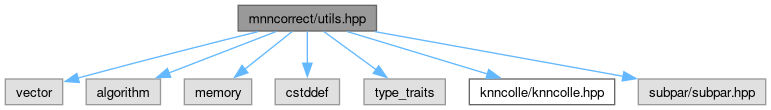
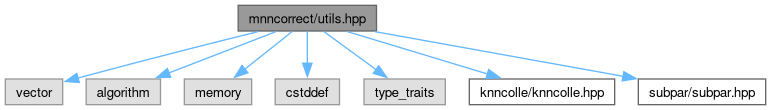
Deploying to gh-pages from @ libscran/mnncorrect@4e17fbb64b5964e9e74299aa8e17b0ef20e1f7d5 🚀

Changed region(s): [[0.8093, 0.7091, 0.9961, 0.9545]]

diff --git a/docs/search/all_e.js b/docs/search/all_e.js
@@ -1,10 +1,14 @@
 var searchData=
 [
-  ['search_0',['search',['https://knncolle.github.io/knncolle/classknncolle_1_1BruteforceSearcher.html#a053545a8000d3a7ad9ff81c8315e20a2',1,'knncolle::BruteforceSearcher::search(Index_ i, Index_ k, std::vector&lt; Index_ &gt; *output_indices, std::vector&lt; Distance_ &gt; *output_distances)'],['https://knncolle.github.io/knncolle/classknncolle_1_1BruteforceSearcher.html#af66acefa137de424974cabfc2cc624fb',1,'knncolle::BruteforceSearcher::search(const Data_ *query, Index_ k, std::vector&lt; Index_ &gt; *output_indices, std::vector&lt; Distance_ &gt; *output_distances)'],['https://knncolle.github.io/knncolle/classknncolle_1_1Searcher.html#ab0f6c2ce78952dd555f7f1a8fb3ac208',1,'knncolle::Searcher::search(Index_ i, Index_ k, std::vector&lt; Index_ &gt; *output_indices, std::vector&lt; Distance_ &gt; *output_distances)=0'],['https://knncolle.github.io/knncolle/classknncolle_1_1Searcher.html#a6968d65276d81f47c92f6351ec786150',1,'knncolle::Searcher::search(const Data_ *query, Index_ k, std::vector&lt; Index_ &gt; *output_indices, std::vector&lt; Distance_ &gt; *output_distances)=0'],['https://knncolle.github.io/knncolle/classknncolle_1_1VptreeSearcher.html#a2f9935e30b1541aaa19e1cad9f8448e5',1,'knncolle::VptreeSearcher::search(Index_ i, Index_ k, std::vector&lt; Index_ &gt; *output_indices, std::vector&lt; Distance_ &gt; *output_distances)'],['https://knncolle.github.io/knncolle/classknncolle_1_1VptreeSearcher.html#a4cbc643bf6cbce5c718d5bf3fb820580',1,'knncolle::VptreeSearcher::search(const Data_ *query, Index_ k, std::vector&lt; Index_ &gt; *output_indices, std::vector&lt; Distance_ &gt; *output_distances)']]],
-  ['search_5fall_1',['search_all',['https://knncolle.github.io/knncolle/classknncolle_1_1BruteforceSearcher.html#a73547f377d2bab4860d0aa07839b1046',1,'knncolle::BruteforceSearcher::search_all(Index_ i, Distance_ d, std::vector&lt; Index_ &gt; *output_indices, std::vector&lt; Distance_ &gt; *output_distances)'],['https://knncolle.github.io/knncolle/classknncolle_1_1BruteforceSearcher.html#ac1ead06e7eaf03df9cec271e9a64fbee',1,'knncolle::BruteforceSearcher::search_all(const Data_ *query, Distance_ d, std::vector&lt; Index_ &gt; *output_indices, std::vector&lt; Distance_ &gt; *output_distances)'],['https://knncolle.github.io/knncolle/classknncolle_1_1Searcher.html#a3ef8c1bf087751bff46af346bda2feb3',1,'knncolle::Searcher::search_all(Index_ i, Distance_ distance, std::vector&lt; Index_ &gt; *output_indices, std::vector&lt; Distance_ &gt; *output_distances)'],['https://knncolle.github.io/knncolle/classknncolle_1_1Searcher.html#a37c88e638622eadc5f3c0328e8a1c5f1',1,'knncolle::Searcher::search_all(const Data_ *query, Distance_ distance, std::vector&lt; Index_ &gt; *output_indices, std::vector&lt; Distance_ &gt; *output_distances)'],['https://knncolle.github.io/knncolle/classknncolle_1_1VptreeSearcher.html#a146e00c6e6d2de4080e902b12eaf2475',1,'knncolle::VptreeSearcher::search_all(Index_ i, Distance_ d, std::vector&lt; Index_ &gt; *output_indices, std::vector&lt; Distance_ &gt; *output_distances)'],['https://knncolle.github.io/knncolle/classknncolle_1_1VptreeSearcher.html#a53b639f9025699af8fc45487c26ed800',1,'knncolle::VptreeSearcher::search_all(const Data_ *query, Distance_ d, std::vector&lt; Index_ &gt; *output_indices, std::vector&lt; Distance_ &gt; *output_distances)']]],
-  ['searcher_2',['Searcher',['https://knncolle.github.io/knncolle/classknncolle_1_1Searcher.html',1,'knncolle']]],
-  ['searcher_2ehpp_3',['Searcher.hpp',['https://knncolle.github.io/knncolle/Searcher_8hpp.html',1,'']]],
-  ['searcher_3c_20index_5f_2c_20data_5f_2c_20distance_5f_20_3e_4',['Searcher&lt; Index_, Data_, Distance_ &gt;',['https://knncolle.github.io/knncolle/classknncolle_1_1Searcher.html',1,'knncolle']]],
-  ['simplematrix_5',['SimpleMatrix',['https://knncolle.github.io/knncolle/classknncolle_1_1SimpleMatrix.html',1,'knncolle::SimpleMatrix&lt; typename Index_, typename Data_ &gt;'],['https://knncolle.github.io/knncolle/classknncolle_1_1SimpleMatrix.html#afe415d2e6adc07aecffab4e8b75ca9e5',1,'knncolle::SimpleMatrix::SimpleMatrix()']]],
-  ['simplematrixextractor_6',['SimpleMatrixExtractor',['https://knncolle.github.io/knncolle/classknncolle_1_1SimpleMatrixExtractor.html',1,'knncolle']]]
+  ['sanitize_5fnum_5fworkers_0',['sanitize_num_workers',['https://ltla.github.io/subpar/namespacesubpar.html#a9a5cb3009789142bac13ce0e81f19082',1,'subpar']]],
+  ['search_1',['search',['https://knncolle.github.io/knncolle/classknncolle_1_1BruteforceSearcher.html#a053545a8000d3a7ad9ff81c8315e20a2',1,'knncolle::BruteforceSearcher::search(Index_ i, Index_ k, std::vector&lt; Index_ &gt; *output_indices, std::vector&lt; Distance_ &gt; *output_distances)'],['https://knncolle.github.io/knncolle/classknncolle_1_1BruteforceSearcher.html#af66acefa137de424974cabfc2cc624fb',1,'knncolle::BruteforceSearcher::search(const Data_ *query, Index_ k, std::vector&lt; Index_ &gt; *output_indices, std::vector&lt; Distance_ &gt; *output_distances)'],['https://knncolle.github.io/knncolle/classknncolle_1_1Searcher.html#ab0f6c2ce78952dd555f7f1a8fb3ac208',1,'knncolle::Searcher::search(Index_ i, Index_ k, std::vector&lt; Index_ &gt; *output_indices, std::vector&lt; Distance_ &gt; *output_distances)=0'],['https://knncolle.github.io/knncolle/classknncolle_1_1Searcher.html#a6968d65276d81f47c92f6351ec786150',1,'knncolle::Searcher::search(const Data_ *query, Index_ k, std::vector&lt; Index_ &gt; *output_indices, std::vector&lt; Distance_ &gt; *output_distances)=0'],['https://knncolle.github.io/knncolle/classknncolle_1_1VptreeSearcher.html#a2f9935e30b1541aaa19e1cad9f8448e5',1,'knncolle::VptreeSearcher::search(Index_ i, Index_ k, std::vector&lt; Index_ &gt; *output_indices, std::vector&lt; Distance_ &gt; *output_distances)'],['https://knncolle.github.io/knncolle/classknncolle_1_1VptreeSearcher.html#a4cbc643bf6cbce5c718d5bf3fb820580',1,'knncolle::VptreeSearcher::search(const Data_ *query, Index_ k, std::vector&lt; Index_ &gt; *output_indices, std::vector&lt; Distance_ &gt; *output_distances)']]],
+  ['search_5fall_2',['search_all',['https://knncolle.github.io/knncolle/classknncolle_1_1BruteforceSearcher.html#a73547f377d2bab4860d0aa07839b1046',1,'knncolle::BruteforceSearcher::search_all(Index_ i, Distance_ d, std::vector&lt; Index_ &gt; *output_indices, std::vector&lt; Distance_ &gt; *output_distances)'],['https://knncolle.github.io/knncolle/classknncolle_1_1BruteforceSearcher.html#ac1ead06e7eaf03df9cec271e9a64fbee',1,'knncolle::BruteforceSearcher::search_all(const Data_ *query, Distance_ d, std::vector&lt; Index_ &gt; *output_indices, std::vector&lt; Distance_ &gt; *output_distances)'],['https://knncolle.github.io/knncolle/classknncolle_1_1Searcher.html#a3ef8c1bf087751bff46af346bda2feb3',1,'knncolle::Searcher::search_all(Index_ i, Distance_ distance, std::vector&lt; Index_ &gt; *output_indices, std::vector&lt; Distance_ &gt; *output_distances)'],['https://knncolle.github.io/knncolle/classknncolle_1_1Searcher.html#a37c88e638622eadc5f3c0328e8a1c5f1',1,'knncolle::Searcher::search_all(const Data_ *query, Distance_ distance, std::vector&lt; Index_ &gt; *output_indices, std::vector&lt; Distance_ &gt; *output_distances)'],['https://knncolle.github.io/knncolle/classknncolle_1_1VptreeSearcher.html#a146e00c6e6d2de4080e902b12eaf2475',1,'knncolle::VptreeSearcher::search_all(Index_ i, Distance_ d, std::vector&lt; Index_ &gt; *output_indices, std::vector&lt; Distance_ &gt; *output_distances)'],['https://knncolle.github.io/knncolle/classknncolle_1_1VptreeSearcher.html#a53b639f9025699af8fc45487c26ed800',1,'knncolle::VptreeSearcher::search_all(const Data_ *query, Distance_ d, std::vector&lt; Index_ &gt; *output_indices, std::vector&lt; Distance_ &gt; *output_distances)']]],
+  ['searcher_3',['Searcher',['https://knncolle.github.io/knncolle/classknncolle_1_1Searcher.html',1,'knncolle']]],
+  ['searcher_2ehpp_4',['Searcher.hpp',['https://knncolle.github.io/knncolle/Searcher_8hpp.html',1,'']]],
+  ['searcher_3c_20index_5f_2c_20data_5f_2c_20distance_5f_20_3e_5',['Searcher&lt; Index_, Data_, Distance_ &gt;',['https://knncolle.github.io/knncolle/classknncolle_1_1Searcher.html',1,'knncolle']]],
+  ['simple_2ehpp_6',['simple.hpp',['https://ltla.github.io/subpar/simple_8hpp.html',1,'']]],
+  ['simplematrix_7',['SimpleMatrix',['https://knncolle.github.io/knncolle/classknncolle_1_1SimpleMatrix.html',1,'knncolle::SimpleMatrix&lt; typename Index_, typename Data_ &gt;'],['https://knncolle.github.io/knncolle/classknncolle_1_1SimpleMatrix.html#afe415d2e6adc07aecffab4e8b75ca9e5',1,'knncolle::SimpleMatrix::SimpleMatrix()']]],
+  ['simplematrixextractor_8',['SimpleMatrixExtractor',['https://knncolle.github.io/knncolle/classknncolle_1_1SimpleMatrixExtractor.html',1,'knncolle']]],
+  ['subpar_9',['subpar',['https://ltla.github.io/subpar/namespacesubpar.html',1,'']]],
+  ['subpar_2ehpp_10',['subpar.hpp',['https://ltla.github.io/subpar/subpar_8hpp.html',1,'']]]
 ];

diff --git a/docs/search/functions_a.js b/docs/search/functions_a.js
@@ -1,6 +1,7 @@
 var searchData=
 [
-  ['search_0',['search',['https://knncolle.github.io/knncolle/classknncolle_1_1BruteforceSearcher.html#a053545a8000d3a7ad9ff81c8315e20a2',1,'knncolle::BruteforceSearcher::search(Index_ i, Index_ k, std::vector&lt; Index_ &gt; *output_indices, std::vector&lt; Distance_ &gt; *output_distances)'],['https://knncolle.github.io/knncolle/classknncolle_1_1BruteforceSearcher.html#af66acefa137de424974cabfc2cc624fb',1,'knncolle::BruteforceSearcher::search(const Data_ *query, Index_ k, std::vector&lt; Index_ &gt; *output_indices, std::vector&lt; Distance_ &gt; *output_distances)'],['https://knncolle.github.io/knncolle/classknncolle_1_1Searcher.html#ab0f6c2ce78952dd555f7f1a8fb3ac208',1,'knncolle::Searcher::search(Index_ i, Index_ k, std::vector&lt; Index_ &gt; *output_indices, std::vector&lt; Distance_ &gt; *output_distances)=0'],['https://knncolle.github.io/knncolle/classknncolle_1_1Searcher.html#a6968d65276d81f47c92f6351ec786150',1,'knncolle::Searcher::search(const Data_ *query, Index_ k, std::vector&lt; Index_ &gt; *output_indices, std::vector&lt; Distance_ &gt; *output_distances)=0'],['https://knncolle.github.io/knncolle/classknncolle_1_1VptreeSearcher.html#a2f9935e30b1541aaa19e1cad9f8448e5',1,'knncolle::VptreeSearcher::search(Index_ i, Index_ k, std::vector&lt; Index_ &gt; *output_indices, std::vector&lt; Distance_ &gt; *output_distances)'],['https://knncolle.github.io/knncolle/classknncolle_1_1VptreeSearcher.html#a4cbc643bf6cbce5c718d5bf3fb820580',1,'knncolle::VptreeSearcher::search(const Data_ *query, Index_ k, std::vector&lt; Index_ &gt; *output_indices, std::vector&lt; Distance_ &gt; *output_distances)']]],
-  ['search_5fall_1',['search_all',['https://knncolle.github.io/knncolle/classknncolle_1_1BruteforceSearcher.html#a73547f377d2bab4860d0aa07839b1046',1,'knncolle::BruteforceSearcher::search_all(Index_ i, Distance_ d, std::vector&lt; Index_ &gt; *output_indices, std::vector&lt; Distance_ &gt; *output_distances)'],['https://knncolle.github.io/knncolle/classknncolle_1_1BruteforceSearcher.html#ac1ead06e7eaf03df9cec271e9a64fbee',1,'knncolle::BruteforceSearcher::search_all(const Data_ *query, Distance_ d, std::vector&lt; Index_ &gt; *output_indices, std::vector&lt; Distance_ &gt; *output_distances)'],['https://knncolle.github.io/knncolle/classknncolle_1_1Searcher.html#a3ef8c1bf087751bff46af346bda2feb3',1,'knncolle::Searcher::search_all(Index_ i, Distance_ distance, std::vector&lt; Index_ &gt; *output_indices, std::vector&lt; Distance_ &gt; *output_distances)'],['https://knncolle.github.io/knncolle/classknncolle_1_1Searcher.html#a37c88e638622eadc5f3c0328e8a1c5f1',1,'knncolle::Searcher::search_all(const Data_ *query, Distance_ distance, std::vector&lt; Index_ &gt; *output_indices, std::vector&lt; Distance_ &gt; *output_distances)'],['https://knncolle.github.io/knncolle/classknncolle_1_1VptreeSearcher.html#a146e00c6e6d2de4080e902b12eaf2475',1,'knncolle::VptreeSearcher::search_all(Index_ i, Distance_ d, std::vector&lt; Index_ &gt; *output_indices, std::vector&lt; Distance_ &gt; *output_distances)'],['https://knncolle.github.io/knncolle/classknncolle_1_1VptreeSearcher.html#a53b639f9025699af8fc45487c26ed800',1,'knncolle::VptreeSearcher::search_all(const Data_ *query, Distance_ d, std::vector&lt; Index_ &gt; *output_indices, std::vector&lt; Distance_ &gt; *output_distances)']]],
-  ['simplematrix_2',['SimpleMatrix',['https://knncolle.github.io/knncolle/classknncolle_1_1SimpleMatrix.html#afe415d2e6adc07aecffab4e8b75ca9e5',1,'knncolle::SimpleMatrix']]]
+  ['sanitize_5fnum_5fworkers_0',['sanitize_num_workers',['https://ltla.github.io/subpar/namespacesubpar.html#a9a5cb3009789142bac13ce0e81f19082',1,'subpar']]],
+  ['search_1',['search',['https://knncolle.github.io/knncolle/classknncolle_1_1BruteforceSearcher.html#a053545a8000d3a7ad9ff81c8315e20a2',1,'knncolle::BruteforceSearcher::search(Index_ i, Index_ k, std::vector&lt; Index_ &gt; *output_indices, std::vector&lt; Distance_ &gt; *output_distances)'],['https://knncolle.github.io/knncolle/classknncolle_1_1BruteforceSearcher.html#af66acefa137de424974cabfc2cc624fb',1,'knncolle::BruteforceSearcher::search(const Data_ *query, Index_ k, std::vector&lt; Index_ &gt; *output_indices, std::vector&lt; Distance_ &gt; *output_distances)'],['https://knncolle.github.io/knncolle/classknncolle_1_1Searcher.html#ab0f6c2ce78952dd555f7f1a8fb3ac208',1,'knncolle::Searcher::search(Index_ i, Index_ k, std::vector&lt; Index_ &gt; *output_indices, std::vector&lt; Distance_ &gt; *output_distances)=0'],['https://knncolle.github.io/knncolle/classknncolle_1_1Searcher.html#a6968d65276d81f47c92f6351ec786150',1,'knncolle::Searcher::search(const Data_ *query, Index_ k, std::vector&lt; Index_ &gt; *output_indices, std::vector&lt; Distance_ &gt; *output_distances)=0'],['https://knncolle.github.io/knncolle/classknncolle_1_1VptreeSearcher.html#a2f9935e30b1541aaa19e1cad9f8448e5',1,'knncolle::VptreeSearcher::search(Index_ i, Index_ k, std::vector&lt; Index_ &gt; *output_indices, std::vector&lt; Distance_ &gt; *output_distances)'],['https://knncolle.github.io/knncolle/classknncolle_1_1VptreeSearcher.html#a4cbc643bf6cbce5c718d5bf3fb820580',1,'knncolle::VptreeSearcher::search(const Data_ *query, Index_ k, std::vector&lt; Index_ &gt; *output_indices, std::vector&lt; Distance_ &gt; *output_distances)']]],
+  ['search_5fall_2',['search_all',['https://knncolle.github.io/knncolle/classknncolle_1_1BruteforceSearcher.html#a73547f377d2bab4860d0aa07839b1046',1,'knncolle::BruteforceSearcher::search_all(Index_ i, Distance_ d, std::vector&lt; Index_ &gt; *output_indices, std::vector&lt; Distance_ &gt; *output_distances)'],['https://knncolle.github.io/knncolle/classknncolle_1_1BruteforceSearcher.html#ac1ead06e7eaf03df9cec271e9a64fbee',1,'knncolle::BruteforceSearcher::search_all(const Data_ *query, Distance_ d, std::vector&lt; Index_ &gt; *output_indices, std::vector&lt; Distance_ &gt; *output_distances)'],['https://knncolle.github.io/knncolle/classknncolle_1_1Searcher.html#a3ef8c1bf087751bff46af346bda2feb3',1,'knncolle::Searcher::search_all(Index_ i, Distance_ distance, std::vector&lt; Index_ &gt; *output_indices, std::vector&lt; Distance_ &gt; *output_distances)'],['https://knncolle.github.io/knncolle/classknncolle_1_1Searcher.html#a37c88e638622eadc5f3c0328e8a1c5f1',1,'knncolle::Searcher::search_all(const Data_ *query, Distance_ distance, std::vector&lt; Index_ &gt; *output_indices, std::vector&lt; Distance_ &gt; *output_distances)'],['https://knncolle.github.io/knncolle/classknncolle_1_1VptreeSearcher.html#a146e00c6e6d2de4080e902b12eaf2475',1,'knncolle::VptreeSearcher::search_all(Index_ i, Distance_ d, std::vector&lt; Index_ &gt; *output_indices, std::vector&lt; Distance_ &gt; *output_distances)'],['https://knncolle.github.io/knncolle/classknncolle_1_1VptreeSearcher.html#a53b639f9025699af8fc45487c26ed800',1,'knncolle::VptreeSearcher::search_all(const Data_ *query, Distance_ d, std::vector&lt; Index_ &gt; *output_indices, std::vector&lt; Distance_ &gt; *output_distances)']]],
+  ['simplematrix_3',['SimpleMatrix',['https://knncolle.github.io/knncolle/classknncolle_1_1SimpleMatrix.html#afe415d2e6adc07aecffab4e8b75ca9e5',1,'knncolle::SimpleMatrix']]]
 ];

diff --git a/docs/utils_8hpp_source.html b/docs/utils_8hpp_source.html
@@ -112,7 +112,7 @@ $(function(){ initResizable(false); });
 <div class="line"><a id="l00010" name="l00010"></a><span class="lineno">   10</span><span class="preprocessor">#include &quot;<a class="codeRef" href="https://knncolle.github.io/knncolle/knncolle_8hpp.html">knncolle/knncolle.hpp</a>&quot;</span></div>
 <div class="line"><a id="l00011" name="l00011"></a><span class="lineno">   11</span> </div>
 <div class="line"><a id="l00012" name="l00012"></a><span class="lineno">   12</span><span class="preprocessor">#ifndef MNNCORRECT_CUSTOM_PARALLEL</span></div>
-<div class="line"><a id="l00013" name="l00013"></a><span class="lineno">   13</span><span class="preprocessor">#include &quot;subpar/subpar.hpp&quot;</span></div>
+<div class="line"><a id="l00013" name="l00013"></a><span class="lineno">   13</span><span class="preprocessor">#include &quot;<a class="codeRef" href="https://ltla.github.io/subpar/subpar_8hpp.html">subpar/subpar.hpp</a>&quot;</span></div>
 <div class="line"><a id="l00014" name="l00014"></a><span class="lineno">   14</span><span class="preprocessor">#endif</span></div>
 <div class="line"><a id="l00015" name="l00015"></a><span class="lineno">   15</span> </div>
 <div class="foldopen" id="foldopen00021" data-start="{" data-end="}">
@@ -127,7 +127,7 @@ $(function(){ initResizable(false); });
 <div class="line"><a id="l00058" name="l00058"></a><span class="lineno"><a class="line" href="namespacemnncorrect.html#aaf40fe64b828a94b8d253fca4b32b4a4">   58</a></span><span class="keywordtype">void</span> <a class="code hl_function" href="namespacemnncorrect.html#aaf40fe64b828a94b8d253fca4b32b4a4">parallelize</a>(<span class="keyword">const</span> <span class="keywordtype">int</span> num_workers, <span class="keyword">const</span> Task_ num_tasks, Run_ run_task_range) {</div>
 <div class="line"><a id="l00059" name="l00059"></a><span class="lineno">   59</span><span class="preprocessor">#ifndef MNNCORRECT_CUSTOM_PARALLEL</span></div>
 <div class="line"><a id="l00060" name="l00060"></a><span class="lineno">   60</span>    <span class="comment">// Methods could allocate or throw, so nothrow_ = false is safest.</span></div>
-<div class="line"><a id="l00061" name="l00061"></a><span class="lineno">   61</span>    subpar::parallelize_range&lt;false&gt;(num_workers, num_tasks, std::move(run_task_range));</div>
+<div class="line"><a id="l00061" name="l00061"></a><span class="lineno">   61</span>    <a class="code hl_functionRef" href="https://ltla.github.io/subpar/namespacesubpar.html#a9c64cc17f4f8d1fadbba6d25053a8dbe">subpar::parallelize_range&lt;false&gt;</a>(num_workers, num_tasks, std::move(run_task_range));</div>
 <div class="line"><a id="l00062" name="l00062"></a><span class="lineno">   62</span><span class="preprocessor">#else</span></div>
 <div class="line"><a id="l00063" name="l00063"></a><span class="lineno">   63</span>    MNNCORRECT_CUSTOM_PARALLEL(num_workers, num_tasks, run_task_range);</div>
 <div class="line"><a id="l00064" name="l00064"></a><span class="lineno">   64</span><span class="preprocessor">#endif</span></div>
@@ -170,6 +170,8 @@ $(function(){ initResizable(false); });
 <div class="ttc" id="anamespacemnncorrect_html_a5a9c9f9569fcad76a5e735cd8fae0197"><div class="ttname"><a href="namespacemnncorrect.html#a5a9c9f9569fcad76a5e735cd8fae0197">mnncorrect::MergePolicy</a></div><div class="ttdeci">MergePolicy</div><div class="ttdef"><b>Definition</b> utils.hpp:43</div></div>
 <div class="ttc" id="anamespacemnncorrect_html_a67ab090aec935cd48ad2e5d3383926f7"><div class="ttname"><a href="namespacemnncorrect.html#a67ab090aec935cd48ad2e5d3383926f7">mnncorrect::BatchIndex</a></div><div class="ttdeci">std::size_t BatchIndex</div><div class="ttdef"><b>Definition</b> utils.hpp:26</div></div>
 <div class="ttc" id="anamespacemnncorrect_html_aaf40fe64b828a94b8d253fca4b32b4a4"><div class="ttname"><a href="namespacemnncorrect.html#aaf40fe64b828a94b8d253fca4b32b4a4">mnncorrect::parallelize</a></div><div class="ttdeci">void parallelize(const int num_workers, const Task_ num_tasks, Run_ run_task_range)</div><div class="ttdef"><b>Definition</b> utils.hpp:58</div></div>
+<div class="ttc" id="anamespacesubpar_html_a9c64cc17f4f8d1fadbba6d25053a8dbe"><div class="ttname"><a href="https://ltla.github.io/subpar/namespacesubpar.html#a9c64cc17f4f8d1fadbba6d25053a8dbe">subpar::parallelize_range</a></div><div class="ttdeci">void parallelize_range(int num_workers, Task_ num_tasks, Run_ run_task_range)</div></div>
+<div class="ttc" id="asubpar_8hpp_html"><div class="ttname"><a href="https://ltla.github.io/subpar/subpar_8hpp.html">subpar.hpp</a></div></div>
 </div><!-- fragment --></div><!-- contents -->
 <!-- start footer part -->
 <hr class="footer"/><address class="footer"><small>

diff --git a/docs/search/all_d.js b/docs/search/all_d.js
@@ -1,8 +1,9 @@
 var searchData=
 [
-  ['raw_0',['raw',['https://knncolle.github.io/knncolle/classknncolle_1_1DistanceMetric.html#a8ce1cf96534fffbc989ae0141cf74ef4',1,'knncolle::DistanceMetric']]],
-  ['report_1',['report',['https://knncolle.github.io/knncolle/classknncolle_1_1NeighborQueue.html#a611b8233976b0b5f930deac74c2b68c3',1,'knncolle::NeighborQueue::report(std::vector&lt; Index_ &gt; *output_indices, std::vector&lt; Distance_ &gt; *output_distances, Index_ self)'],['https://knncolle.github.io/knncolle/classknncolle_1_1NeighborQueue.html#a8eae6afd23a9b4a3106b64f16e78c852',1,'knncolle::NeighborQueue::report(std::vector&lt; Index_ &gt; *output_indices, std::vector&lt; Distance_ &gt; *output_distances)']]],
-  ['report_5fall_5fneighbors_2',['report_all_neighbors',['https://knncolle.github.io/knncolle/namespaceknncolle.html#af24a311775039654985b447c85d03782',1,'knncolle::report_all_neighbors(std::vector&lt; std::pair&lt; Distance_, Index_ &gt; &gt; &amp;all_neighbors, std::vector&lt; Index_ &gt; *output_indices, std::vector&lt; Distance_ &gt; *output_distances, Index_ self)'],['https://knncolle.github.io/knncolle/namespaceknncolle.html#ab42206db56aa02366c741249e609465c',1,'knncolle::report_all_neighbors(std::vector&lt; std::pair&lt; Distance_, Index_ &gt; &gt; &amp;all_neighbors, std::vector&lt; Index_ &gt; *output_indices, std::vector&lt; Distance_ &gt; *output_distances)']]],
-  ['report_5fall_5fneighbors_2ehpp_3',['report_all_neighbors.hpp',['https://knncolle.github.io/knncolle/report__all__neighbors_8hpp.html',1,'']]],
-  ['reset_4',['reset',['https://knncolle.github.io/knncolle/classknncolle_1_1NeighborQueue.html#ae75692355310f09d163bf20b19b3ef36',1,'knncolle::NeighborQueue']]]
+  ['range_2ehpp_0',['range.hpp',['https://ltla.github.io/subpar/range_8hpp.html',1,'']]],
+  ['raw_1',['raw',['https://knncolle.github.io/knncolle/classknncolle_1_1DistanceMetric.html#a8ce1cf96534fffbc989ae0141cf74ef4',1,'knncolle::DistanceMetric']]],
+  ['report_2',['report',['https://knncolle.github.io/knncolle/classknncolle_1_1NeighborQueue.html#a611b8233976b0b5f930deac74c2b68c3',1,'knncolle::NeighborQueue::report(std::vector&lt; Index_ &gt; *output_indices, std::vector&lt; Distance_ &gt; *output_distances, Index_ self)'],['https://knncolle.github.io/knncolle/classknncolle_1_1NeighborQueue.html#a8eae6afd23a9b4a3106b64f16e78c852',1,'knncolle::NeighborQueue::report(std::vector&lt; Index_ &gt; *output_indices, std::vector&lt; Distance_ &gt; *output_distances)']]],
+  ['report_5fall_5fneighbors_3',['report_all_neighbors',['https://knncolle.github.io/knncolle/namespaceknncolle.html#af24a311775039654985b447c85d03782',1,'knncolle::report_all_neighbors(std::vector&lt; std::pair&lt; Distance_, Index_ &gt; &gt; &amp;all_neighbors, std::vector&lt; Index_ &gt; *output_indices, std::vector&lt; Distance_ &gt; *output_distances, Index_ self)'],['https://knncolle.github.io/knncolle/namespaceknncolle.html#ab42206db56aa02366c741249e609465c',1,'knncolle::report_all_neighbors(std::vector&lt; std::pair&lt; Distance_, Index_ &gt; &gt; &amp;all_neighbors, std::vector&lt; Index_ &gt; *output_indices, std::vector&lt; Distance_ &gt; *output_distances)']]],
+  ['report_5fall_5fneighbors_2ehpp_4',['report_all_neighbors.hpp',['https://knncolle.github.io/knncolle/report__all__neighbors_8hpp.html',1,'']]],
+  ['reset_5',['reset',['https://knncolle.github.io/knncolle/classknncolle_1_1NeighborQueue.html#ae75692355310f09d163bf20b19b3ef36',1,'knncolle::NeighborQueue']]]
 ];

diff --git a/docs/search/all_c.js b/docs/search/all_c.js
@@ -1,7 +1,9 @@
 var searchData=
 [
   ['parallelize_0',['parallelize',['https://knncolle.github.io/knncolle/namespaceknncolle.html#a5faf80c12bbfbab853c41f6d001fe073',1,'knncolle::parallelize()'],['../namespacemnncorrect.html#aaf40fe64b828a94b8d253fca4b32b4a4',1,'mnncorrect::parallelize()']]],
-  ['prebuilt_1',['Prebuilt',['https://knncolle.github.io/knncolle/classknncolle_1_1Prebuilt.html',1,'knncolle']]],
-  ['prebuilt_2ehpp_2',['Prebuilt.hpp',['https://knncolle.github.io/knncolle/Prebuilt_8hpp.html',1,'']]],
-  ['prebuilt_3c_20index_5f_2c_20data_5f_2c_20distance_5f_20_3e_3',['Prebuilt&lt; Index_, Data_, Distance_ &gt;',['https://knncolle.github.io/knncolle/classknncolle_1_1Prebuilt.html',1,'knncolle']]]
+  ['parallelize_5frange_1',['parallelize_range',['https://ltla.github.io/subpar/namespacesubpar.html#a9c64cc17f4f8d1fadbba6d25053a8dbe',1,'subpar']]],
+  ['parallelize_5fsimple_2',['parallelize_simple',['https://ltla.github.io/subpar/namespacesubpar.html#abd9eeb2cbaaf14382b926674c47b9d73',1,'subpar']]],
+  ['prebuilt_3',['Prebuilt',['https://knncolle.github.io/knncolle/classknncolle_1_1Prebuilt.html',1,'knncolle']]],
+  ['prebuilt_2ehpp_4',['Prebuilt.hpp',['https://knncolle.github.io/knncolle/Prebuilt_8hpp.html',1,'']]],
+  ['prebuilt_3c_20index_5f_2c_20data_5f_2c_20distance_5f_20_3e_5',['Prebuilt&lt; Index_, Data_, Distance_ &gt;',['https://knncolle.github.io/knncolle/classknncolle_1_1Prebuilt.html',1,'knncolle']]]
 ];

diff --git a/docs/utils_8hpp.html b/docs/utils_8hpp.html
@@ -114,7 +114,7 @@ $(function(){ initResizable(false); });
 <code>#include &lt;cstddef&gt;</code><br />
 <code>#include &lt;type_traits&gt;</code><br />
 <code>#include &quot;<a class="elRef" href="https://knncolle.github.io/knncolle/knncolle_8hpp.html">knncolle/knncolle.hpp</a>&quot;</code><br />
-<code>#include &quot;subpar/subpar.hpp&quot;</code><br />
+<code>#include &quot;<a class="elRef" href="https://ltla.github.io/subpar/subpar_8hpp.html">subpar/subpar.hpp</a>&quot;</code><br />
 </div><div class="textblock"><div class="dynheader">
 Include dependency graph for utils.hpp:</div>
 <div class="dyncontent">
@@ -133,7 +133,7 @@ Include dependency graph for utils.hpp:</div>
 <area shape="poly" title=" " alt="" coords="325,29,378,68,375,72,322,34"/>
 <area shape="rect" target="_parent" href="https://knncolle.github.io/knncolle/knncolle_8hpp.html" title=" " alt="" coords="469,79,615,105"/>
 <area shape="poly" title=" " alt="" coords="348,29,488,71,487,77,346,34"/>
-<area shape="rect" title=" " alt="" coords="638,79,766,105"/>
+<area shape="rect" target="_parent" href="https://ltla.github.io/subpar/subpar_8hpp.html" title=" " alt="" coords="638,79,766,105"/>
 <area shape="poly" title=" " alt="" coords="375,29,624,74,623,79,374,34"/>
 </map>
 </div>

diff --git a/docs/namespaces.html b/docs/namespaces.html
@@ -100,6 +100,7 @@ $(function(){ initResizable(false); });
 <table class="directory">
 <tr id="row_0_" class="even"><td class="entry"><span style="width:16px;display:inline-block;">&#160;</span><span class="icona"><span class="icon">N</span></span><a class="elRef" href="https://knncolle.github.io/knncolle/namespaceknncolle.html" target="_self">knncolle</a>&#160;[external]</td><td class="desc"></td></tr>
 <tr id="row_1_" class="odd"><td class="entry"><span style="width:16px;display:inline-block;">&#160;</span><span class="icona"><span class="icon">N</span></span><a class="el" href="namespacemnncorrect.html" target="_self">mnncorrect</a></td><td class="desc">Batch correction with mutual nearest neighbors </td></tr>
+<tr id="row_2_" class="even"><td class="entry"><span style="width:16px;display:inline-block;">&#160;</span><span class="icona"><span class="icon">N</span></span><a class="elRef" href="https://ltla.github.io/subpar/namespacesubpar.html" target="_self">subpar</a>&#160;[external]</td><td class="desc"></td></tr>
 </table>
 </div><!-- directory -->
 </div><!-- contents -->

diff --git a/docs/namespacemnncorrect.html b/docs/namespacemnncorrect.html
@@ -410,7 +410,7 @@ template&lt;typename Task_ , class Run_ &gt; </div>
   </table>
   </dd>
 </dl>
-<p>By default, this is an alias to <code>subpar::parallelize_range()</code>. However, if the <code>MNNCORRECT_CUSTOM_PARALLEL</code> function-like macro is defined, it is called instead. Any user-defined macro should accept the same arguments as <code>subpar::parallelize_range()</code>. </p>
+<p>By default, this is an alias to <code><a class="elRef" href="https://ltla.github.io/subpar/namespacesubpar.html#a9c64cc17f4f8d1fadbba6d25053a8dbe">subpar::parallelize_range()</a></code>. However, if the <code>MNNCORRECT_CUSTOM_PARALLEL</code> function-like macro is defined, it is called instead. Any user-defined macro should accept the same arguments as <code><a class="elRef" href="https://ltla.github.io/subpar/namespacesubpar.html#a9c64cc17f4f8d1fadbba6d25053a8dbe">subpar::parallelize_range()</a></code>. </p>
 
 </div>
 </div>

diff --git a/docs/search/functions_8.js b/docs/search/functions_8.js
@@ -1,4 +1,6 @@
 var searchData=
 [
-  ['parallelize_0',['parallelize',['https://knncolle.github.io/knncolle/namespaceknncolle.html#a5faf80c12bbfbab853c41f6d001fe073',1,'knncolle::parallelize()'],['../namespacemnncorrect.html#aaf40fe64b828a94b8d253fca4b32b4a4',1,'mnncorrect::parallelize()']]]
+  ['parallelize_0',['parallelize',['https://knncolle.github.io/knncolle/namespaceknncolle.html#a5faf80c12bbfbab853c41f6d001fe073',1,'knncolle::parallelize()'],['../namespacemnncorrect.html#aaf40fe64b828a94b8d253fca4b32b4a4',1,'mnncorrect::parallelize()']]],
+  ['parallelize_5frange_1',['parallelize_range',['https://ltla.github.io/subpar/namespacesubpar.html#a9c64cc17f4f8d1fadbba6d25053a8dbe',1,'subpar']]],
+  ['parallelize_5fsimple_2',['parallelize_simple',['https://ltla.github.io/subpar/namespacesubpar.html#abd9eeb2cbaaf14382b926674c47b9d73',1,'subpar']]]
 ];

diff --git a/docs/mnncorrect_8hpp.html b/docs/mnncorrect_8hpp.html
@@ -151,7 +151,7 @@ Include dependency graph for mnncorrect.hpp:</div>
 <area shape="poly" title=" " alt="" coords="295,104,303,137,297,138,289,106"/>
 <area shape="rect" title=" " alt="" coords="364,153,446,178"/>
 <area shape="poly" title=" " alt="" coords="310,103,374,142,371,147,307,107"/>
-<area shape="rect" title=" " alt="" coords="470,153,597,178"/>
+<area shape="rect" target="_parent" href="https://ltla.github.io/subpar/subpar_8hpp.html" title=" " alt="" coords="470,153,597,178"/>
 <area shape="poly" title=" " alt="" coords="325,101,478,145,476,150,323,106"/>
 </map>
 </div>

diff --git a/docs/search/files_9.js b/docs/search/files_9.js
@@ -1,4 +1,6 @@
 var searchData=
 [
-  ['searcher_2ehpp_0',['Searcher.hpp',['https://knncolle.github.io/knncolle/Searcher_8hpp.html',1,'']]]
+  ['searcher_2ehpp_0',['Searcher.hpp',['https://knncolle.github.io/knncolle/Searcher_8hpp.html',1,'']]],
+  ['simple_2ehpp_1',['simple.hpp',['https://ltla.github.io/subpar/simple_8hpp.html',1,'']]],
+  ['subpar_2ehpp_2',['subpar.hpp',['https://ltla.github.io/subpar/subpar_8hpp.html',1,'']]]
 ];

diff --git a/docs/search/files_8.js b/docs/search/files_8.js
@@ -1,4 +1,5 @@
 var searchData=
 [
-  ['report_5fall_5fneighbors_2ehpp_0',['report_all_neighbors.hpp',['https://knncolle.github.io/knncolle/report__all__neighbors_8hpp.html',1,'']]]
+  ['range_2ehpp_0',['range.hpp',['https://ltla.github.io/subpar/range_8hpp.html',1,'']]],
+  ['report_5fall_5fneighbors_2ehpp_1',['report_all_neighbors.hpp',['https://knncolle.github.io/knncolle/report__all__neighbors_8hpp.html',1,'']]]
 ];
